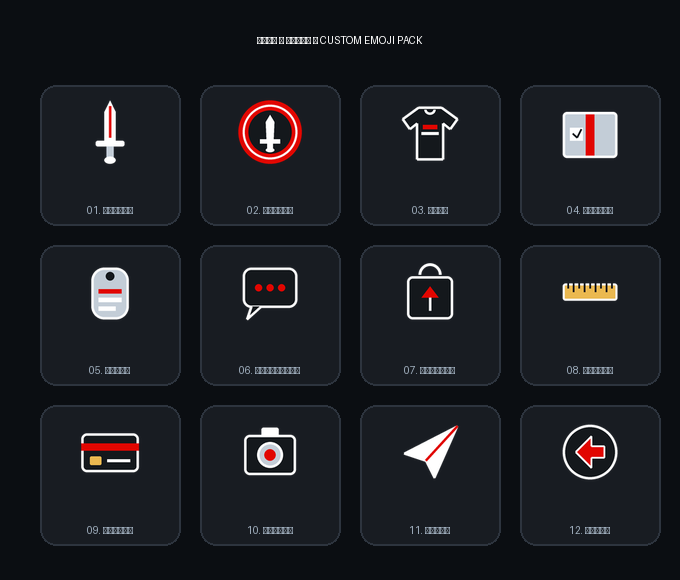
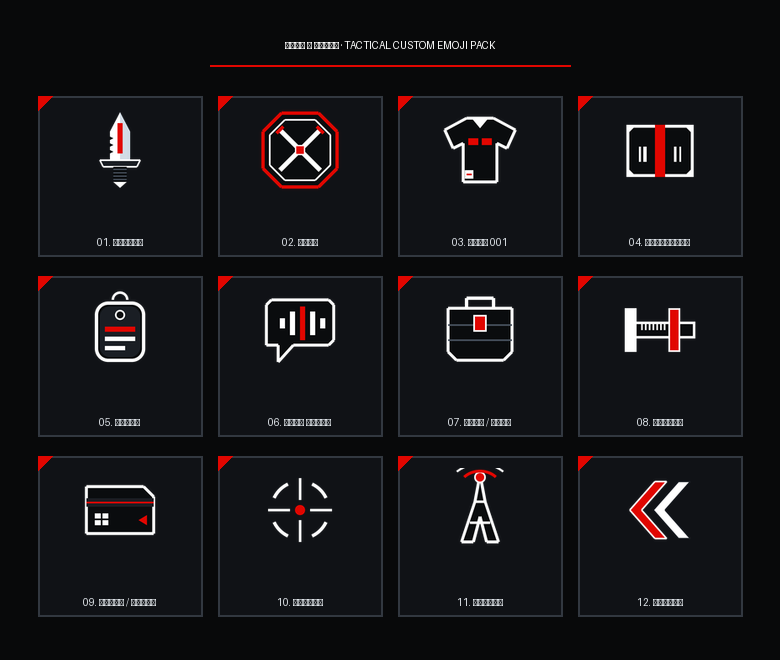
feat: redesign emoji pack in brutalist tactical military aesthetic for Sila i Chest

diff --git a/custom_emoji_pack/README.md b/custom_emoji_pack/README.md
@@ -1,56 +1,58 @@
-# КАСТОМНЫЙ ЭМОДЗИ-ПАК ДЛЯ БОТА «СИЛА И ЧЕСТЬ»
+# ТАКТИЧЕСКИЙ ЭМОДЗИ-ПАК «СИЛА И ЧЕСТЬ» (BRUTALIST TACTICAL SET)
 
-Готовый комплект из 12 иконок в формате **100×100 PNG (RGBA, прозрачный фон)**, специально созданный под уставной стритвир-стиль бренда «СИЛА И ЧЕСТЬ» для кнопок меню Telegram-бота и оформления постов.
-
----
-
-## 1. Список иконок и сопоставление эмодзи
-
-| Файл | Название | Значение в магазине | Рекомендуемый эмодзи для `@Stickers` |
-| :--- | :--- | :--- | :---: |
-| `01_sword.png` | **Клинок** | Фирменный знак «СИЛА И ЧЕСТЬ», главный логотип | ⚔ |
-| `02_seal.png` | **Печать** | Круглая печать бренда, раздел «О бренде» | 🛡 |
-| `03_drop.png` | **Футболка** | Раздел «Первый дроп» / Каталог | 👕 |
-| `04_orders.png` | **Посылка** | «Мои покупки» / Статус доставки заказа | 📦 |
-| `05_profile.png` | **Жетон** | «Личный кабинет» / Номер жетона покупателя | 🪪 |
-| `06_support.png` | **Поддержка** | Связь с менеджером / «Поддержка» | 💬 |
-| `07_cart.png` | **Корзина** | Корзина / Кнопка «+ Оформить заказ» | 🛒 |
-| `08_ruler.png` | **Линейка** | «Замеры» / «Подобрать размер» | 📏 |
-| `09_card.png` | **Оплата** | Счёт / Оплата картой / СБП | 💳 |
-| `10_lookbook.png` | **Камера** | Раздел «Образы» / Лукбук | 📷 |
-| `11_channel.png` | **Канал** | Переход в Telegram-канал бренда | 📢 |
-| `12_back.png` | **Стрелка назад** | Кнопка «← Главное меню» / «Назад» | ⬅ |
+Фирменный набор из 12 кастомных эмодзи в формате **100×100 PNG (RGBA, прозрачный фон)**, специально переработанный под строгую брутальную милитари/стритвир эстетику бренда «СИЛА И ЧЕСТЬ».
 
 ---
 
-## 2. Инструкция: Как создать пак в Telegram за 2 минуты (Бесплатно)
+## 1. Стилистическая концепция пака
+
+- **Палитра**: Глубокий матовый углерод (`#0A0C0E`), оружейная холодная сталь (`#D2DCE6`), чистый титановый белый (`#FFFFFF`) и уставной багровый акцент (`#E10600`).
+- **Геометрия**: Отказ от округлых «мультяшных» форм — жесткие уставные фаски (chamfer 45°), трафаретные прорези (stencil cutouts), тактические рифления, строгие углы и насечки.
+- **Масштабируемость**: Иконки отрисованы с высокой контрастностью и четко читаются в интерфейсе Telegram при размерах 16×16, 20×20 и 24×24 пикселя внутри кнопок.
+
+---
+
+## 2. Состав и назначение иконок
+
+| Файл | Название | Образ | Значение в боте | Эмодзи в `@Stickers` |
+| :--- | :--- | :--- | :--- | :---: |
+| `01_sword.png` | **Клинок** | Тактический кинжал Tanto с долом и гардой | Главный логотип / Раздел бренда | ⚔ |
+| `02_seal.png` | **Герб** | Тактический восьмигранник со скрещенными клинками | «О бренде» / Подпись основателя | 🛡 |
+| `03_drop.png` | **Дроп 001** | Оверсайз футболка с трафаретной планкой | Раздел «Первый дроп» / Каталог | 👕 |
+| `04_orders.png` | **Снабжение** | Армейский контейнер с угловыми накладками | «Мои покупки» / Статус доставки | 📦 |
+| `05_profile.png` | **Жетон** | Стальной жетон с резиновым глушителем | «Личный кабинет» / Номер жетона | 🪪 |
+| `06_support.png` | **Штаб-связь** | Угловой шеврон связи со спектром сигнала | «Поддержка» / Связь с менеджером | 💬 |
+| `07_cart.png` | **Кейс/Баул** | Оружейный кофр с MOLLE-стропами и замком | Корзина / «+ Оформить заказ» | 🛒 |
+| `08_ruler.png` | **Калибр** | Штангенциркуль / калибратор замеров | «Замеры» / «Размерная сетка» | 📏 |
+| `09_card.png` | **Токен** | Черная титановая карта со скошенным углом | Счёт / Оплата картой / СБП | 💳 |
+| `10_lookbook.png` | **Прицел** | Снайперский видоискатель с лазерной точкой | Раздел «Образы» / Фотосессия | 📷 |
+| `11_channel.png` | **Сигнал** | Тактическая радиомачта с импульсом волн | Переход в Telegram-канал бренда | 📢 |
+| `12_back.png` | **Шеврон** | Двойной шеврон тактического отхода | «← Главное меню» / «Назад» | ⬅ |
+
+---
+
+## 3. Быстрая загрузка в Telegram (за 2 минуты)
 
 1. Откройте в Telegram официального бота: **`@Stickers`**.
 2. Отправьте команду:  
    `/newemojipack`
-3. На вопрос о типе выберите:  
+3. Выберите:  
    **`Static emoji`**
-4. Введите название набора, например:  
-   `Сила и Честь · Меню`
-5. Поочерёдно отправляйте боту файлы из папки `icons/`:
-   - Бот просит файл — прикрепите `01_sword.png` **как файл / документ** (не как сжатое фото!).
-   - Бот спрашивает эмодзи — отправьте ⚔.
-   - Повторите для остальных иконок из таблицы выше.
-6. Когда отправите все 12 файлов, введите команду:  
+4. Укажите название набора:  
+   `СИЛА И ЧЕСТЬ · Меню`
+5. Отправляйте боту файлы из папки `icons/` **как документ/файл**:
+   - `01_sword.png` → в ответ отправьте ⚔
+   - `02_seal.png` → в ответ отправьте 🛡
+   - и далее по таблице выше.
+6. Завершите регистрацию:  
    `/publish`
-7. На вопрос об иконке набора (`Set icon`) можно отправить `02_seal.png` или нажать `/skip`.
-8. Задайте короткую ссылку набора латиницей, например:  
-   `sila_i_chest_pack`
-9. Бот пришлёт готовую ссылку вида:  
-   `https://t.me/addemoji/sila_i_chest_pack`
+7. В качестве обложки пака отправьте `02_seal.png` (или `/skip`).
+8. Введите короткую ссылку латиницей (например, `sila_chest_tactical`).  
+   Бот вернёт готовую ссылку: `https://t.me/addemoji/sila_chest_tactical`.
 
 ---
 
-## 3. Как применить в коде бота (`bot.py`)
-
-1. Добавьте созданный пак к себе в Telegram по ссылке `t.me/addemoji/...`.
-2. Напишите созданные эмодзи в любой чат (или в «Избранное»).
-3. Скопируйте эмодзи в буфер обмена как обычный символ и вставьте в текст кнопок в коде:
+## 4. Пример применения в инлайн-кнопках (`bot.py`)
 
 ```python
 markup = {
@@ -72,5 +74,4 @@ markup = {
     ]
 }
 ```
-
-*При отображении у пользователя Telegram автоматически подставит фирменные цветные векторные иконки прямо в кнопки.*
+*Кастомные эмодзи отображаются на кнопках у всех клиентов, включая пользователей без Telegram Premium.*
